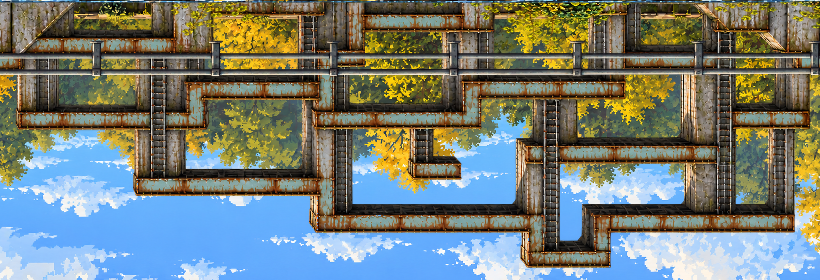
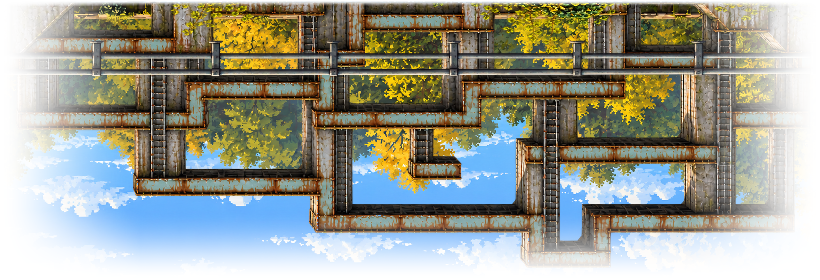
docs(atmosphere): schema, depth bands, evidence; feather the wrong reflection

diff --git a/docs/09-ART-PIPELINE.md b/docs/09-ART-PIPELINE.md
@@ -245,6 +245,36 @@ flowchart LR
 
 **Masks in one line each:** the mask is a PNG the size of the first input; transparent = may change, opaque = keep. It always comes from a board's own raw (never hand-painted), and protected pixels are re-pasted after the call.
 
+## Atmosphere – a stage that moves (atmosphere.json)
+
+The plates stay exactly as painted; `game/src/stage/render.ts` (`drawStage`) brings them to life from `art/stages/<region>/atmosphere.json`, which `export_stage.py` publishes next to `stage.json` (with every file in its `assets`). Nothing is placed by hand: each layer's anchors and waterline are read from its own alpha at load, the leaf colours from its own pixels.
+
+```mermaid
+flowchart LR
+  A["atmosphere.json<br/>wind · layers · leaves · water"] --> P["drawStage<br/>z 0–5 under the actors, z 6–7 over them<br/>(stage/depth.ts)"]
+  L["layer PNGs (alpha)"] --> X["analysis.ts<br/>anchor per column · waterline<br/>water points · autumn palette"]
+  X --> S["one WebGL pipeline<br/>sway (top moves, base still, stone stays)<br/>bob · DOF blur · ripple · shimmer · rim"]
+  P --> S
+  P --> F["leaves (fx-leaves) in front / behind<br/>pads · rings · sparkles (fx-water)<br/>hero reflection · anomaly-reveal"]
+```
+
+| Key | Meaning |
+| --- | --- |
+| `wind` | `base` steady sway share (0–1), `gust` extra lean (0–2), `gustSpeed` px/s, `gustLength` px between fronts, `frequency` Hz, `direction` −1 left / 1 right |
+| `defaults` | a layer without its own entry: `sway` × scroll² (nearer moves more), `reach`, `anchor`, `foliage`; foreground (z ≥ 6) also gets `bob`, `blur` |
+| `layers.<id>` | `sway` px at full weight · `reach` px from the anchor to full weight · `anchor` `"base"` (lowest opaque row per column: trees, foreground plants) or `"top"` (surface top: grass on the path) · `foliage` saturation under which pixels never move (stone, wood) · `bob` px vertical · `blur` px depth of field · `ripple` px · `shimmer` 0–1 (water) |
+| `leaves` | `palette` (`[]` = sampled from the art) · `fall` `"down"` / `"up"` · `front` / `behind`: `every` ms, `scale` [min, max], `scroll` parallax, `alpha`, `tint`; `null` turns one off. Uses the `fx-leaves` sheet, pixel leaves drawn in code without it |
+| `water` | `layer` id (waterline from its alpha) · `reflect` {`alpha`, `tint`} for actors (`null`: none) · `pads` per 1000 px · `padTint` · `padScale` · `ripples` / `sparkles` mean ms (0: none) · `wrong` {`image`, `alpha`}: the picture `anomaly-reveal` flickers in the pond |
+| `assets` | extra images in the region folder (published by the export, loaded with the stage) |
+| `states.<state>` | section-wise overrides for a state (the anomaly's leaves rise) |
+
+A bad field is reported in the console and replaced by its default; `{}` (no file) gives the defaults. The Hidden Garden's [atmosphere.json](../art/stages/hidden-garden/atmosphere.json); `wrong-reflection.png` there is a flipped, feathered crop of Rusty Creek's `after-center.png`.
+
+| | |
+| --- | --- |
+| ![Pond, layers ranked region-wide, ripples, pads, leaves](images/atmosphere/pond-after.png) | ![Terraces with the blurred foreground over the path](images/atmosphere/terraces-foreground.png) |
+| ![The water ripples and shimmers (3×)](images/atmosphere/pond-ripple-zoom.png) | ![anomaly-reveal: the maze in the pond](images/atmosphere/anomaly-reveal.png) |
+
 ## Commands
 
 ```bash

diff --git a/docs/15-PROLOGUE-SLICE.md b/docs/15-PROLOGUE-SLICE.md
@@ -69,7 +69,8 @@ flowchart TD
   P4 -->|"trigger-entered, swapRegion"| L1
 ```
 
-- **Depth bands** (Phaser depth, `game/src/stage/depth.ts`, owned by 2): layers z 0–5 below `HERO_DEPTH = 100`; actors 99–110 (props 99, hero 100, NPCs 101–105); z 6–7 foreground layers at 200+; screen FX and HUD above.
+- **Depth bands** (Phaser depth, `game/src/stage/depth.ts`, owned by 2): layers z 0–5 below `HERO_DEPTH = 100`; actors 99–110 (props 99, hero 100, NPCs 101–105); z 6–7 foreground layers at 200+; screen FX and HUD above. In code: `PROP_DEPTH 99`, `HERO_DEPTH 100`, `NPC_DEPTH {101–105}`, `ACTOR_FX_DEPTH 110`, `LEAVES_BEHIND_DEPTH 90`, `LEAVES_FRONT_DEPTH 150`, `FOREGROUND_DEPTH 200`, `SCREEN_FX_DEPTH 1000`. A layer's depth is its band plus its region-wide rank (`layerRanks`), so a chunk that lists fewer layers stacks like the others.
+- **Stage handles** (2): `drawStage(scene, manifest, state, atmosphere?)` returns `{ images, layers, atmosphere, leaves, animated, waterlineAt(x), reflect(sprite), reveal(position, ms), destroy }`. `reflect` mirrors an actor in the water (Stage does it for the hero); `addRim(sprite, colour?, strength?)` (`stage/atmosphere/pipeline.ts`) gives any sprite a 1 px warm inner rim (Dexter on the dark hedge). On `anomaly-reveal` the water shows `atmosphere.water.wrong`; `stage.data.get('water-reveal')` is true when it will. Schema: [docs/09 – Atmosphere](09-ART-PIPELINE.md#atmosphere--a-stage-that-moves-atmospherejson).
 - **Loader** (1): `Preload` loads every atlas in `BOARDS` plus the region's stage, collision, atmosphere and surfaces files, then starts `Stage` with `{ manifest, state, collisions, atmosphere, surfaces, spawn }`. Story and UI scenes never load assets themselves; they create animations lazily (`story/atlases.ts`).
 - **Events** (`game/src/core/events.ts`): `trigger-entered`, `region-turned`, `save`, `enemy-defeated`, `boss-defeated`; the prologue adds `quest` events if it needs them – a new event goes in a small separate commit.
 - **Region swap**: `swapRegion(scene, { region, state, spawn? })` (`stage/swap.ts`).
